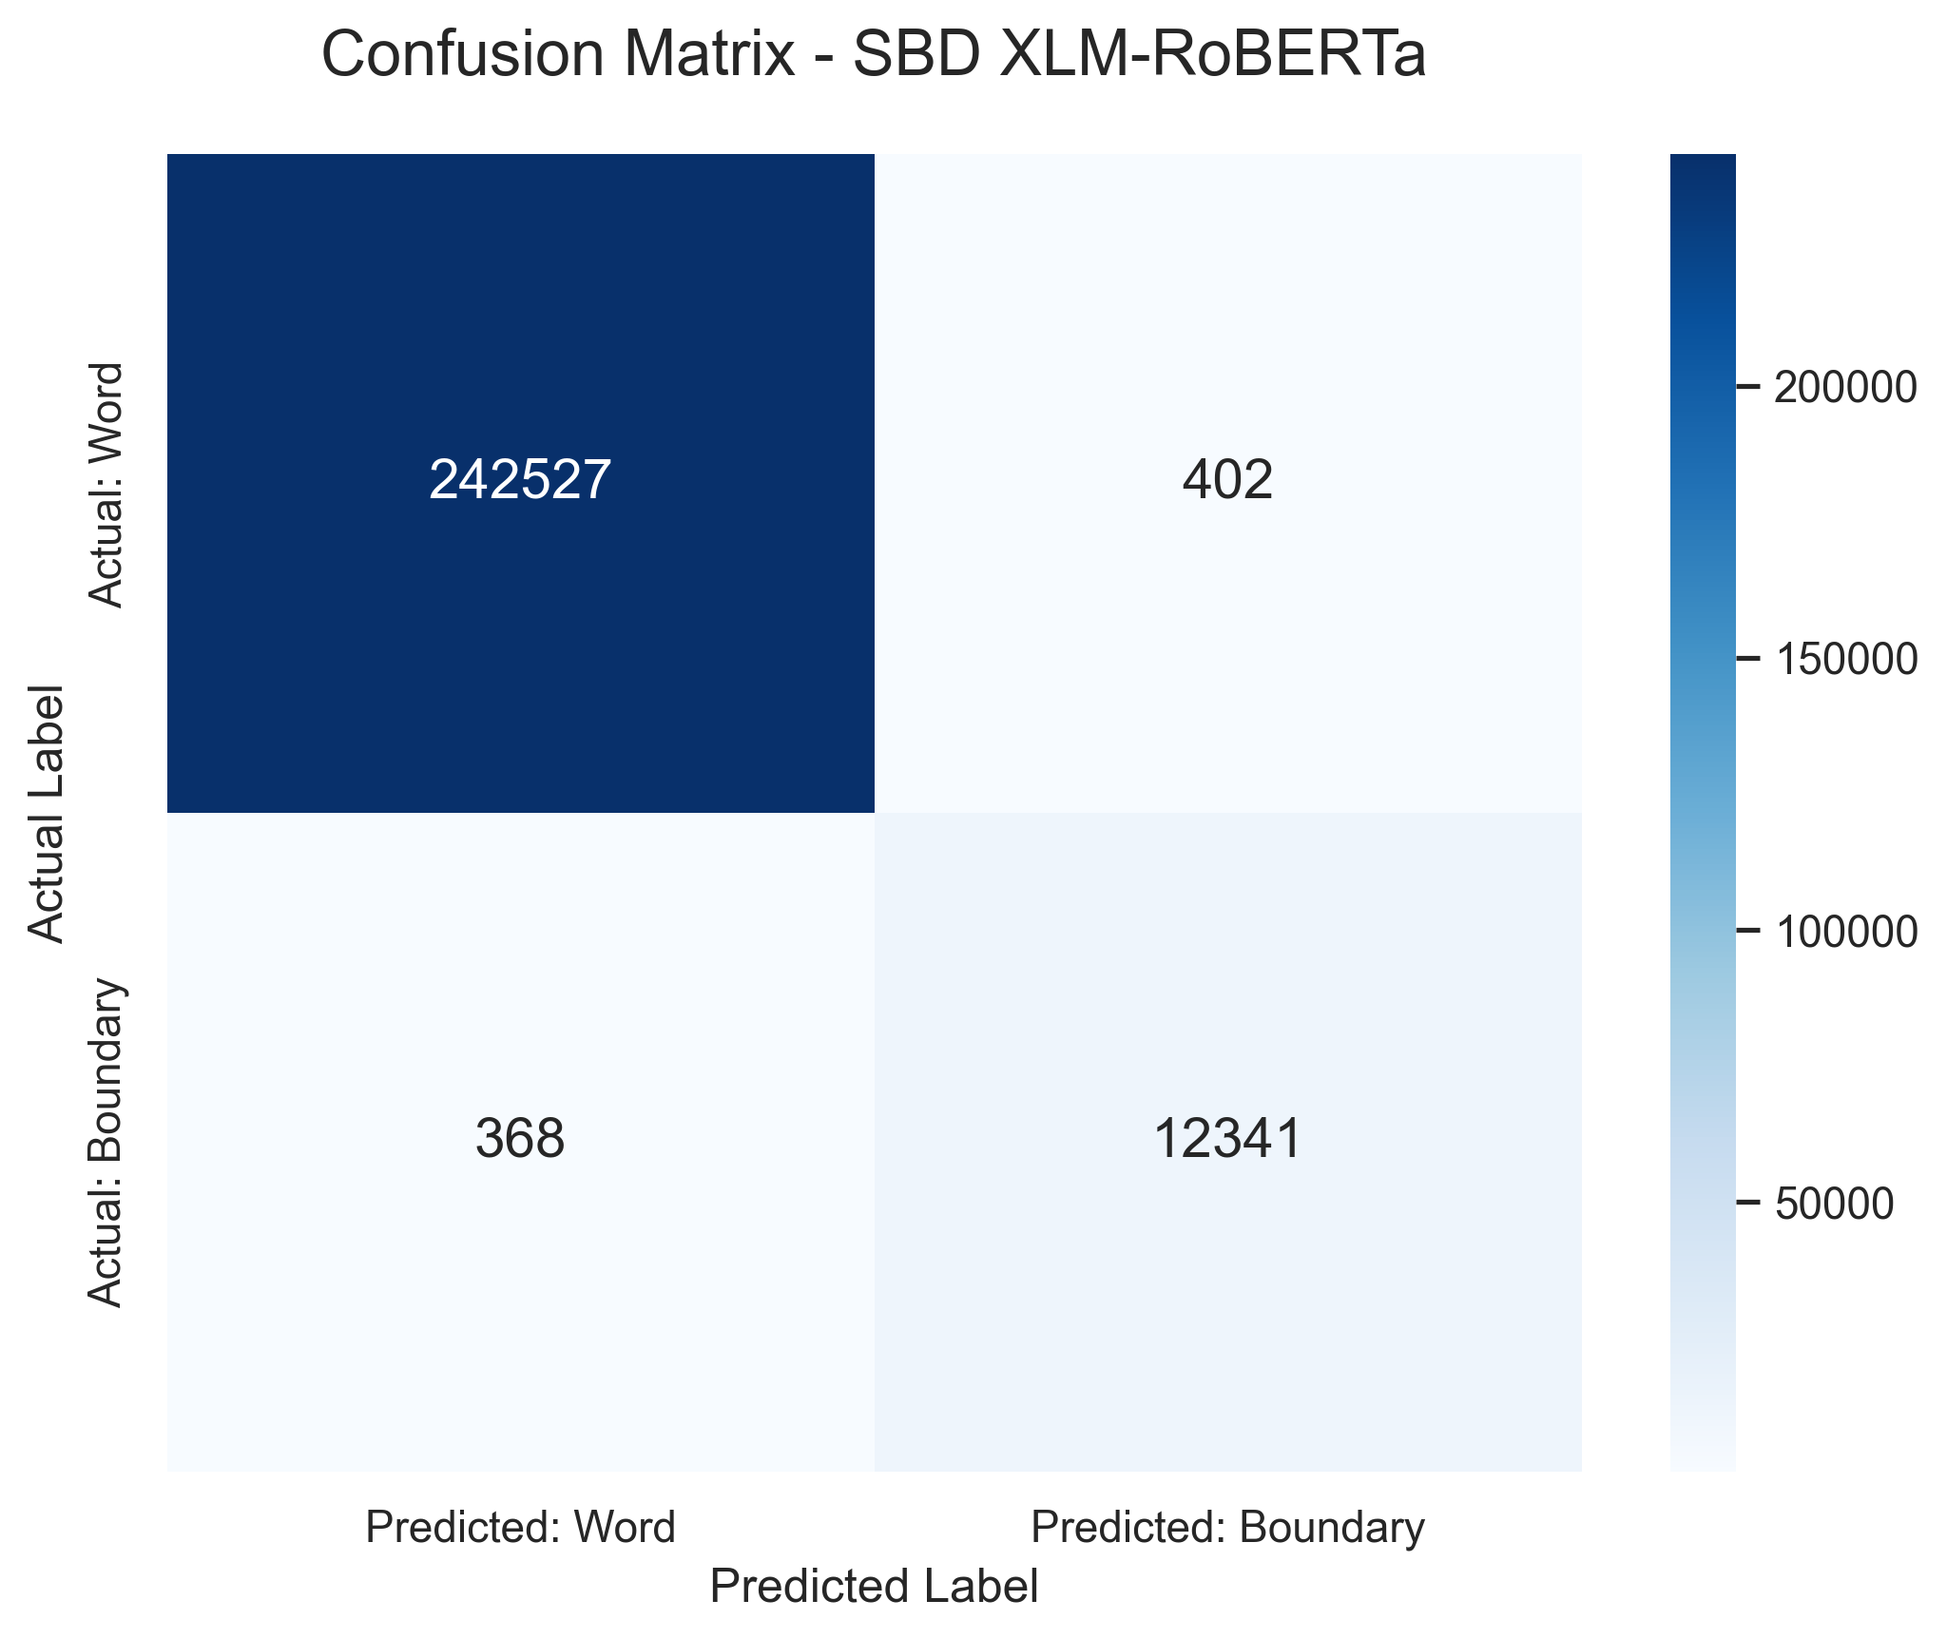
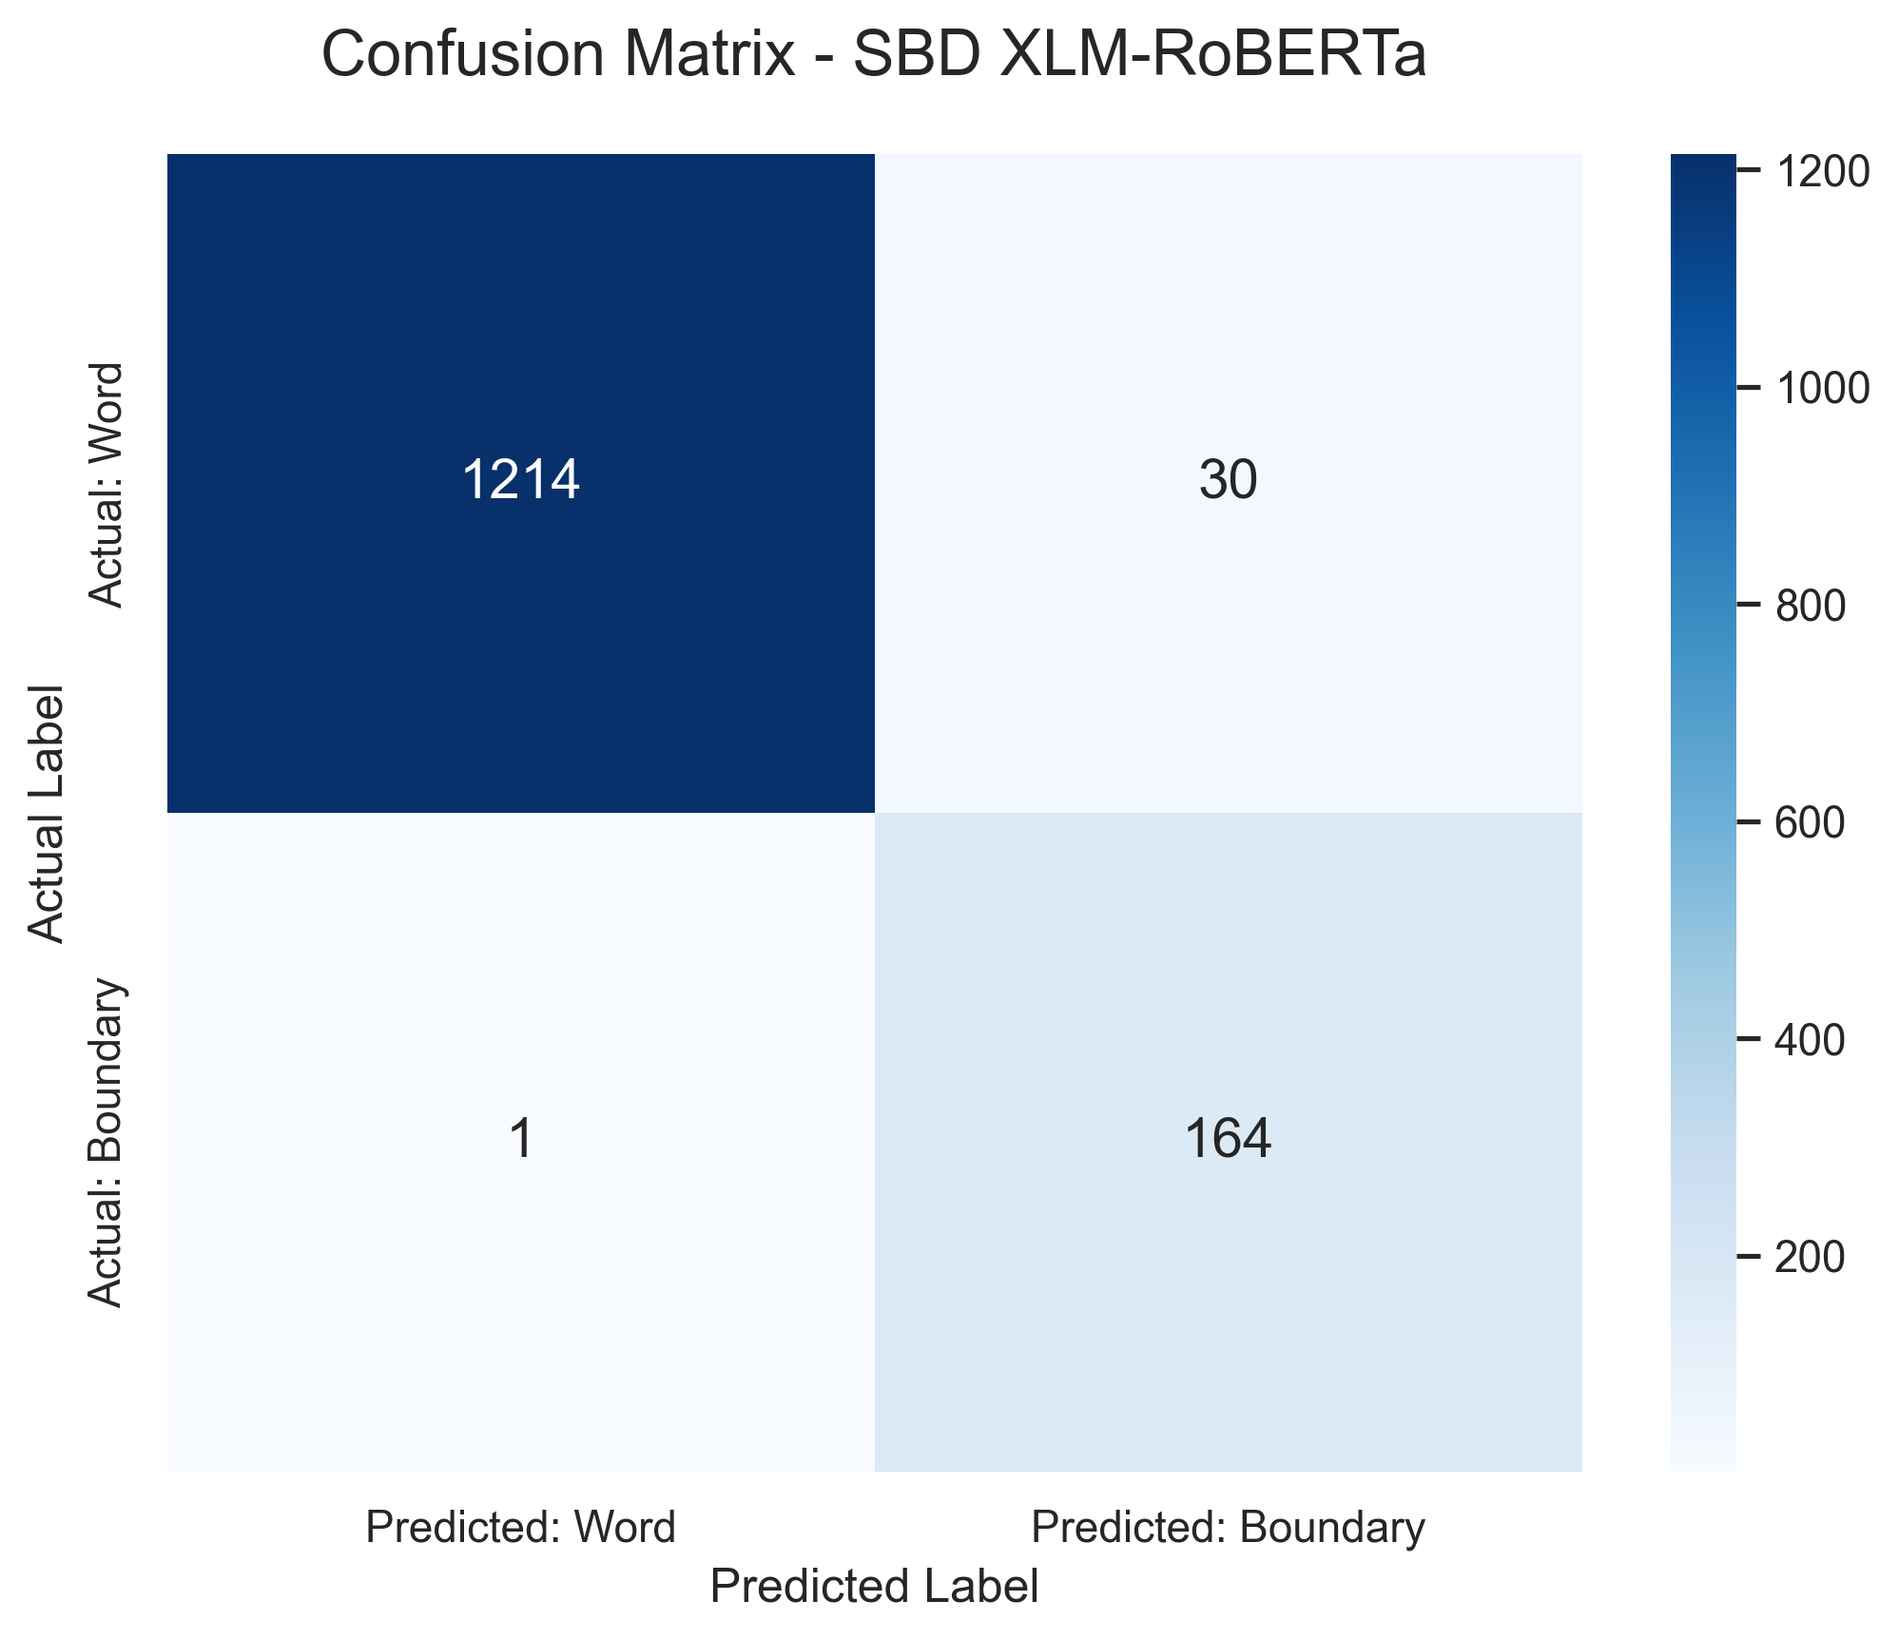
dataset and modelV4

diff --git a/testset.py b/testset.py
@@ -13,13 +13,13 @@ if __name__ == "__main__":
 
     # A. Process Professor's Data
     prof_tokens, prof_labels = utils.process_tar_dataset(
-        "sent_split_data.tar.gz", WINDOW_SIZE, STRIDE, "train"
+        "sent_split_data.tar.gz", WINDOW_SIZE, STRIDE, "test"
     )
 
     # B. Process all MultiLegalSBD JSONL files
     legal_tokens = []
     legal_labels = []
-    legal_files = sorted(Path("MultiLegalSBD").rglob("*train.jsonl"))
+    legal_files = sorted(Path("MultiLegalSBD").rglob("*test.jsonl"))
 
     if not legal_files:
         print("Warning: No JSONL files found in ./MultiLegalSBD")
@@ -33,24 +33,24 @@ if __name__ == "__main__":
         legal_tokens.extend(file_tokens)
         legal_labels.extend(file_labels)
 
-    # C. Process Generalist Data (Wikipedia IT & EN)
-    print("\n--- Processing Generalist Datasets ---")
-    wiki_it_tokens, wiki_it_labels = utils.process_wikipedia_dataset(
-        "20231101.it", WIKI_ARTICLES_PER_LANG, WINDOW_SIZE, STRIDE
-    )
+    # # C. Process Generalist Data (Wikipedia IT & EN)
+    # print("\n--- Processing Generalist Datasets ---")
+    # wiki_it_tokens, wiki_it_labels = utils.process_wikipedia_dataset(
+    #     "20231101.it", WIKI_ARTICLES_PER_LANG, WINDOW_SIZE, STRIDE
+    # )
     
-    wiki_en_tokens, wiki_en_labels = utils.process_wikipedia_dataset(
-        "20231101.en", WIKI_ARTICLES_PER_LANG, WINDOW_SIZE, STRIDE
-    )
+    # wiki_en_tokens, wiki_en_labels = utils.process_wikipedia_dataset(
+    #     "20231101.en", WIKI_ARTICLES_PER_LANG, WINDOW_SIZE, STRIDE
+    # )
 
     # D. Merge all datasets
-    all_tokens = prof_tokens + legal_tokens + wiki_it_tokens + wiki_en_tokens
-    all_labels = prof_labels + legal_labels + wiki_it_labels + wiki_en_labels
+    all_tokens = prof_tokens + legal_tokens 
+    all_labels = prof_labels + legal_labels 
 
     print(f"\n=== MERGE COMPLETE ===")
     print(f"Professor chunks: {len(prof_tokens)}")
     print(f"Legal chunks: {len(legal_tokens)}")
-    print(f"Wikipedia chunks: {len(wiki_it_tokens) + len(wiki_en_tokens)}")
+    #print(f"Wikipedia chunks: {len(wiki_it_tokens) + len(wiki_en_tokens)}")
     print(f"Total chunks ready: {len(all_tokens)}")
     
     # Optional sanity check
@@ -64,7 +64,7 @@ if __name__ == "__main__":
     })
 
     # Save to disk in Arrow/Parquet format
-    output_folder = "unified_training_dataset"
+    output_folder = "./testset"
     hf_dataset.save_to_disk(output_folder)
 
     print(f"Success! Dataset saved to './{output_folder}'.")

diff --git a/evaluation.py b/evaluation.py
@@ -13,17 +13,22 @@ from datasets import load_from_disk
 
 
 # LOAD MODEL AND TOKENIZER
-model_path = "LorenzoVentrone/SentenceSplitter-it-en"
-print(f"Loading model {model_path}...")
+# model_path = "LorenzoVentrone/SentenceSplitter-it-en"
+# print(f"Loading model {model_path}...")
+
+model_path = "SentenceSplitterModelV4"
+tokenizer = AutoTokenizer.from_pretrained(model_path)
+model = AutoModelForTokenClassification.from_pretrained(model_path)
+
 
 tokenizer = AutoTokenizer.from_pretrained(model_path)
 model = AutoModelForTokenClassification.from_pretrained(model_path)
 
-dataset = load_from_disk("unified_training_dataset")
+test_dataset = load_from_disk("comprehensive_test_dataset2")
 
 # Create the split 
-dataset = dataset.train_test_split(test_size=0.1, seed=42)
-test_dataset = dataset["test"]
+# dataset = dataset.train_test_split(test_size=0.1, seed=42)
+# test_dataset = dataset["test"]
 
 # Function to tokenize words and align labels 
 def tokenize_and_align_labels(examples):
@@ -91,7 +96,7 @@ true_labels = [l for l in labels.flatten() if l != -100]
 
 # PRINT CLASSIFICATION REPORT
 print("\n" + "="*55)
-print("CLASSIFICATION REPORT")
+print(f"CLASSIFICATION REPORT {model_path}")
 print("="*55)
 report = classification_report(
     true_labels, 

diff --git a/utils.py b/utils.py
@@ -13,7 +13,7 @@ except LookupError:
     nltk.download('punkt_tab')
 
 # --- 2. TAR.GZ PROCESSING FUNCTION (Professor's Data) ---
-def process_tar_dataset(file_path, window_size, stride):
+def process_tar_dataset(file_path, window_size, stride, mode):
     """
     Reads a .tar.gz containing .sent_split files, extracts tokens based on <EOS>,
     and applies a sliding window per document.
@@ -30,7 +30,7 @@ def process_tar_dataset(file_path, window_size, stride):
 
     with tarfile.open(archive_path, "r:gz") as folder:
         for member in folder.getmembers():
-            if member.isfile() and member.name.endswith(".sent_split"):
+            if member.isfile() and member.name.endswith(f"{mode}.sent_split"):
                 f = folder.extractfile(member)
                 if f is None:
                     continue

diff --git a/report.md b/report.md
@@ -2,14 +2,14 @@
 
 ## 1. Introduction
 
-This project builds a multilingual sentence boundary detection system as a token classification task. Instead of relying on regular-expression sentence splitting, the model predicts sentence boundaries directly on tokens, with labels:
+This project builds a multilingual sentence boundary detection system as a token classification task. Instead of relying on regex-based splitting, the model predicts sentence boundaries directly on tokens:
 
 - 0: token is not the end of a sentence
 - 1: token is the end of a sentence
 
-The latest version extends the original pipeline by integrating multiple heterogeneous sources (academic annotation, legal JSONL corpora, and Wikipedia), unifying them into one training dataset, and training a fine-tuned XLM-RoBERTa model for robust behavior on domain-specific and general text.
+The current version uses a unified training pipeline combining academic, legal, and general-domain data, while enforcing train-only filtering for sources that provide split files.
 
-## 2. Dataset Construction (Latest Version)
+## 2. Dataset Construction (Current Version)
 
 Dataset creation is orchestrated by `Dataset.py` and helper functions in `utils.py`.
 
@@ -17,114 +17,126 @@ Dataset creation is orchestrated by `Dataset.py` and helper functions in `utils.
 
 The final unified dataset is built from three sources:
 
-1. Professor dataset from `sent_split_data.tar.gz`
-2. MultiLegalSBD datasets from all `*.jsonl` files in the `MultiLegalSBD` folder
+1. Professor dataset from `sent_split_data.tar.gz` (only `*-train.sent_split` files)
+2. MultiLegalSBD datasets from `MultiLegalSBD/*train.jsonl`
 3. Wikipedia general-domain data:
    - Italian: `20231101.it`
    - English: `20231101.en`
 
 ### 2.2 TAR Processing
 
-For `.sent_split` files:
+For professor `.sent_split` files:
 
-- Tokens are extracted by whitespace split
-- Tokens containing `<EOS>` are cleaned and labeled as `1`
-- All other tokens are labeled as `0`
+- Tokens are extracted with whitespace split
+- Tokens containing `<EOS>` are cleaned and labeled `1`
+- All other tokens are labeled `0`
+- Only files ending with `-train.sent_split` are included
 - Sliding-window chunking is applied per document
 
 ### 2.3 MultiLegalSBD JSONL Processing
 
-The JSONL pipeline was updated for stronger compatibility and cleaner supervision:
+For legal JSONL files:
 
-- Reads records containing `tokens` and `spans`
-- Uses only spans with `label == "Sentence"`
-- Uses `token_end` as sentence boundary target
-- If `token_end` points to whitespace/newline, it backtracks to the last non-whitespace token
-- Skips whitespace-only tokens in the final token stream
-- Applies the same sliding-window chunking strategy used by TAR data
-
-This ensures consistent token/label alignment across legal corpora with tokenized annotations.
+- Input fields: `tokens` and `spans`
+- Only spans with `label == "Sentence"` are used
+- `token_end` is mapped to the last non-whitespace token
+- Whitespace-only tokens are skipped in output
+- Sliding-window chunking is applied
 
 ### 2.4 Wikipedia Integration
 
-Wikipedia articles are downloaded with the Hugging Face datasets library and processed as follows:
+Wikipedia articles are downloaded with Hugging Face datasets and processed as follows:
 
-- Text is split into paragraphs
-- Sentence boundaries are identified with NLTK sentence tokenizer (`sent_tokenize`)
-- Tokens are produced via whitespace split to keep tokenization style consistent across sources
-- Last token of each detected sentence receives label `1`
+- Paragraph split by blank lines
+- Sentence detection with NLTK `sent_tokenize`
+- Tokenization by whitespace split
+- Last token of each sentence gets label `1`
 - Sliding-window chunking is applied
 
-In this version, `WIKI_ARTICLES_PER_LANG` is set to 250.
+Current setting:
+
+- `WIKI_ARTICLES_PER_LANG = 125`
 
 ### 2.5 Unified Dataset Output
 
-After concatenating all sources, the pipeline creates a Hugging Face dataset with fields:
+After concatenation, data is exported as a Hugging Face dataset with:
 
 - `tokens`
 - `ner_tags`
 
-and saves it to:
+Saved folder:
 
 - `unified_training_dataset`
 
-## 3. Training Setup
+## 3. Training Setup (Current Version)
 
-Training is performed in `SenteceSplitter.ipynb` using `xlm-roberta-base` as backbone for token classification (`num_labels = 2`).
+Training is run in `SenteceSplitter.ipynb` with `xlm-roberta-base` as backbone (`num_labels = 2`).
 
-Main steps:
-
-1. Load unified dataset
-2. Build train/test split
-3. Tokenize and align word-level labels with subword tokens
-4. Ignore non-first subword labels via `-100`
-5. Train with Hugging Face Trainer API
-
-### 3.1 Final Split (Latest Run)
+### 3.1 Split Used in Latest Run
 
 ```python
 DatasetDict({
     train: Dataset({
         features: ['tokens', 'ner_tags'],
-        num_rows: 27720
+        num_rows: 19229
     })
     test: Dataset({
         features: ['tokens', 'ner_tags'],
-        num_rows: 3081
+        num_rows: 2137
     })
 })
 ```
 
+Note: this `test` split is used as validation during training.
+
+### 3.2 Training Hyperparameters
+
+```python
+TrainingArguments(
+    output_dir="./risultati_sentence_splitter",
+    num_train_epochs=4,
+    per_device_train_batch_size=16,
+    per_device_eval_batch_size=16,
+    learning_rate=2e-5,
+    weight_decay=0.01,
+    logging_strategy="steps",
+    logging_steps=200,
+    eval_strategy="epoch",
+    save_strategy="epoch",
+    save_total_limit=2,
+    load_best_model_at_end=True,
+    metric_for_best_model="eval_loss",
+    greater_is_better=False,
+    warmup_steps=480,
+    seed=42,
+)
+```
+
 ## 4. Inference Pipeline
 
-Inference is executed through `inference.py`.
-
-High-level flow:
+Inference is implemented in `inference.py`:
 
 1. Load tokenizer and fine-tuned model
-2. Split long input text into manageable blocks
+2. Split long input into manageable blocks
 3. Predict token-level EOS labels
 4. Reconstruct final sentences from predicted boundaries
 
-The script is designed to handle long and noisy real-world text while preserving sentence segmentation quality.
+## 5. Version Summary
 
-## 5. Version Updates Summary
+Current version updates:
 
-Compared to the previous version, the following major updates were introduced:
-
-1. Multi-source dataset merging (Professor + MultiLegalSBD + Wikipedia IT/EN)
-2. Automatic discovery of legal JSONL files from `MultiLegalSBD/*.jsonl`
-3. Improved JSONL boundary extraction logic for whitespace-safe `token_end` handling
-4. Unified output dataset folder (`unified_training_dataset`)
-5. Final expanded training split with 27,720 training rows and 3,081 test rows
-6. Model publication to Hugging Face Hub
+1. Train-only professor files (`-train.sent_split`)
+2. Train-only legal files (`*train.jsonl`)
+3. Unified output in `unified_training_dataset`
+4. Current split: 19,229 train / 2,137 validation
+5. Updated training configuration with `warmup_steps=480`
 
 ## 6. Hugging Face Release
 
-The trained model is available on Hugging Face Hub.
+The model can be published to Hugging Face Hub.
 
 Model URL: `<ADD_HUGGING_FACE_MODEL_LINK_HERE>`
 
 ## 7. Conclusion
 
-The latest pipeline version improves both coverage and robustness by combining legal-domain and general-domain data under a single consistent labeling strategy. This update significantly strengthens training diversity and supports better sentence boundary detection across different text genres.
+The current pipeline standardizes data from multiple sources while reducing split leakage risk through train-only source filtering for professor and legal corpora. This setup is intended to improve robustness while preserving a clean evaluation protocol on held-out test sets.

diff --git a/README.md b/README.md
@@ -6,8 +6,8 @@ This repository contains a multilingual sentence boundary detection pipeline bui
 
 The dataset pipeline now merges three sources into a single unified training corpus:
 
-1. Professor dataset from `sent_split_data.tar.gz` (`.sent_split` files with `<EOS>` tags)
-2. Legal JSONL datasets from `MultiLegalSBD` (all `.jsonl` files found in the folder)
+1. Professor dataset from `sent_split_data.tar.gz` (only `*-train.sent_split` files with `<EOS>` tags)
+2. Legal JSONL datasets from `MultiLegalSBD` (only `*train.jsonl` files)
 3. General-domain Wikipedia data (Italian and English)
 
 This replaced the previous setup based only on two legal JSONL files.
@@ -25,13 +25,14 @@ All data sources are normalized to the same output schema:
 
 - Each token containing `<EOS>` is cleaned and labeled `1`
 - All other tokens are labeled `0`
+- Only files ending with `-train.sent_split` are included
 - Documents are chunked with sliding window:
    - `WINDOW_SIZE = 128`
    - `STRIDE = 100`
 
 ### 2) MultiLegalSBD JSONL Datasets
 
-`Dataset.py` scans `MultiLegalSBD/*.jsonl` and processes each file through `utils.process_jsonl_dataset(...)`.
+`Dataset.py` scans `MultiLegalSBD` with `*train.jsonl` and processes each file through `utils.process_jsonl_dataset(...)`.
 
 Important handling:
 
@@ -67,13 +68,38 @@ Final split used for training/evaluation:
 DatasetDict({
       train: Dataset({
             features: ['tokens', 'ner_tags'],
-            num_rows: 27720
+            num_rows: 19229
       })
       test: Dataset({
             features: ['tokens', 'ner_tags'],
-            num_rows: 3081
+            num_rows: 2137
       })
 })
+```
+
+## Current Training Configuration
+
+Latest run configuration for this version:
+
+```python
+TrainingArguments(
+    output_dir="./risultati_sentence_splitter",
+    num_train_epochs=4,
+    per_device_train_batch_size=16,
+    per_device_eval_batch_size=16,
+    learning_rate=2e-5,
+    weight_decay=0.01,
+    logging_strategy="steps",
+    logging_steps=200,
+    eval_strategy="epoch",
+    save_strategy="epoch",
+    save_total_limit=2,
+    load_best_model_at_end=True,
+    metric_for_best_model="eval_loss",
+    greater_is_better=False,
+    warmup_steps=480,
+    seed=42,
+)
 ```
 
 ## Project Structure
@@ -124,17 +150,7 @@ jupyter notebook SenteceSplitter.ipynb
 
 ## Evaluation Results
 
-Evaluation was run with `evaluation.py` on the test split generated from `unified_training_dataset`.
-
-### Classification Report
-
-| Class | Precision | Recall | F1-score | Support |
-|---|---:|---:|---:|---:|
-| Word (0) | 0.9985 | 0.9983 | 0.9984 | 242929 |
-| Sentence Boundary (1) | 0.9685 | 0.9710 | 0.9697 | 12709 |
-| Accuracy |  |  | 0.9970 | 255638 |
-| Macro Avg | 0.9835 | 0.9847 | 0.9841 | 255638 |
-| Weighted Avg | 0.9970 | 0.9970 | 0.9970 | 255638 |
+TODO
 
 
 
